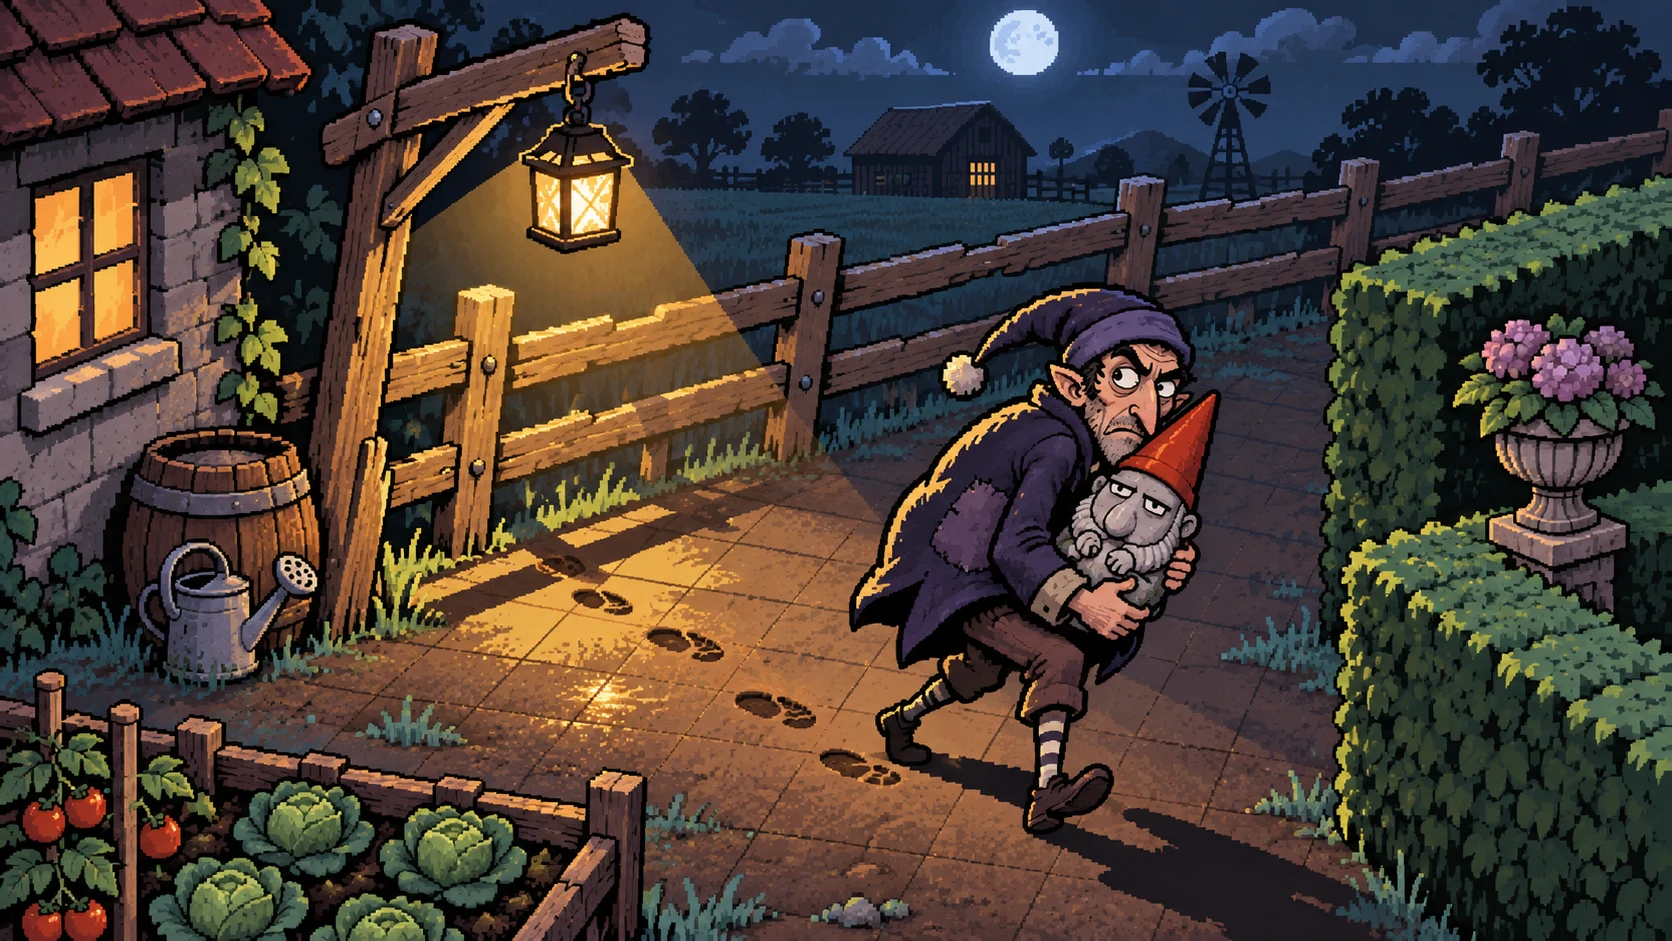
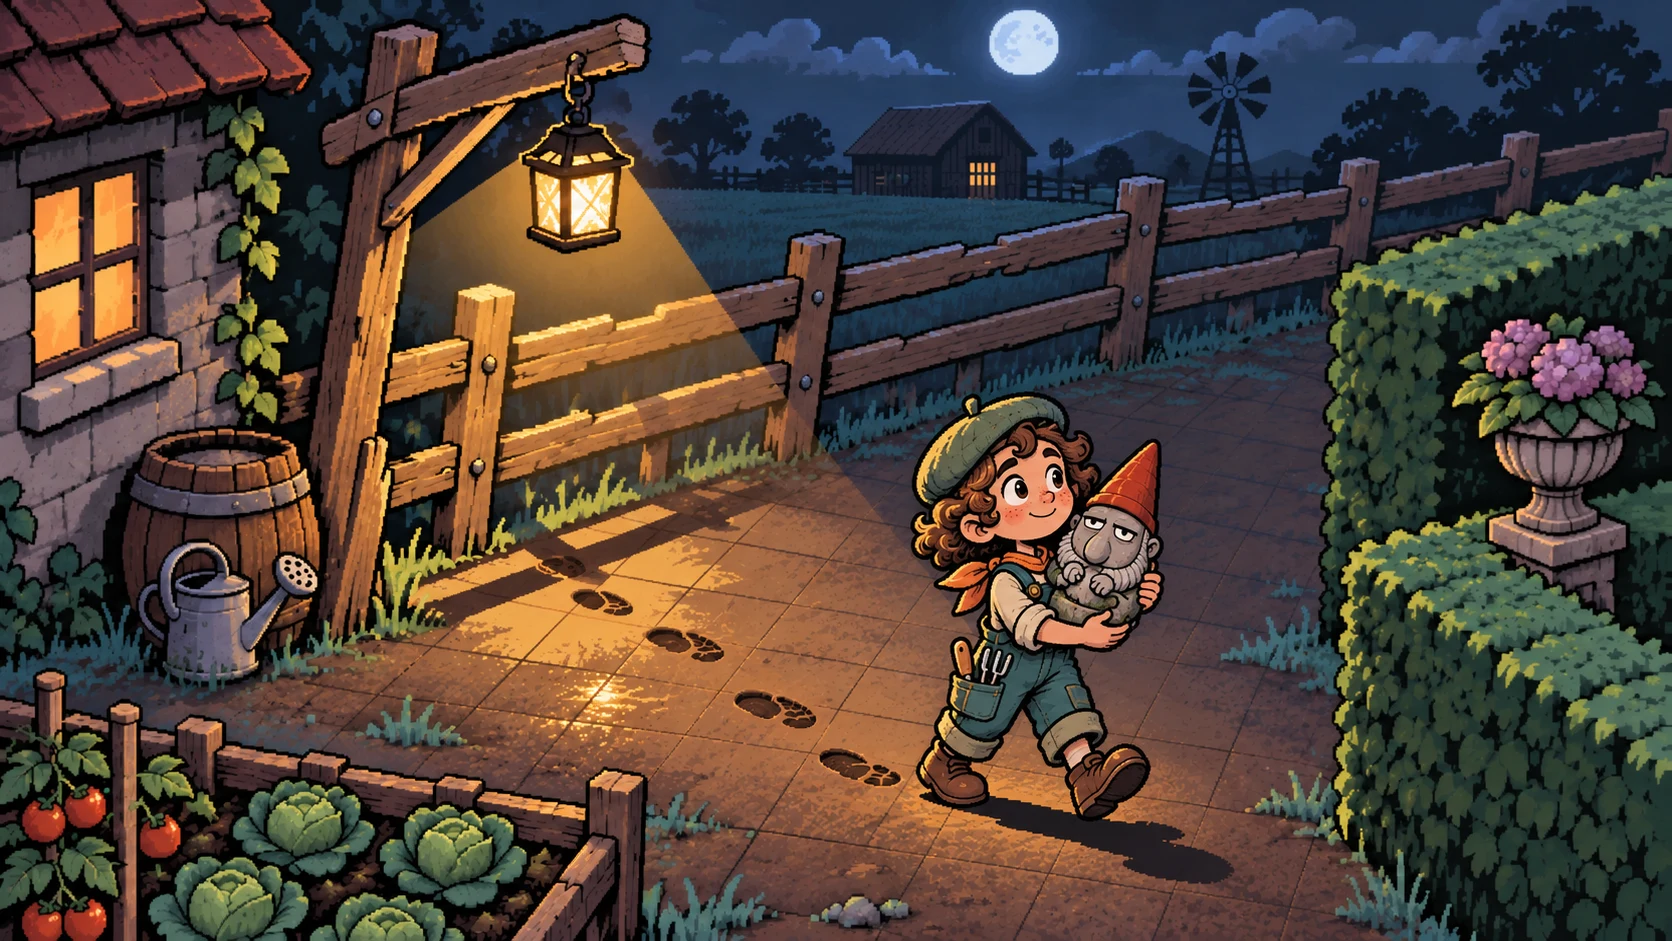
Redraw the playable gardener at a smaller farm scale
AI-assisted by Codex under Hao’s direction.

diff --git a/docs/HANDOFF.md b/docs/HANDOFF.md
@@ -4,13 +4,12 @@ AI-use disclosure: Claude (Claude Code) and Codex maintain this handoff under Ha
 
 Keep this file short: replace the snapshot each time, and update only your own row in Active work. Durable detail belongs in commits, PRs, and the docs.
 
-## Snapshot (2026-11-18, Codex, first playable art pass)
+## Snapshot (2026-11-18, Codex, gardener revision)
 
-- Local branch `codex/night-farm-art-v1` is based on the T8 handoff at `798b7cb`. The previous snapshot and rule-verification history are available at that commit.
-- Hao requested a first playable style checkpoint. The entry illustration, directional thief, carrying poses, farm tiles, interactive props and inked footprints are ready for his review. The four-column gait advances with actual distance. The 24 × 32 character cell and desktop camera framing are provisional art choices.
-- Local checks passed with Node 24.22.3: strict typecheck, 169 tests, production client build and Worker dry-run. A Chrome keyboard replay on Vite and on the standalone local HTML selected the west entrance, stopped facing right, dug the southwest gnome, returned with it, ended the night and restarted. The recorded route is from the playable client.
-- Independent review identified a widescreen sight-range regression and a portrait crop that cut off the gnome. Both fixes were applied. Chrome checked 1920 × 1080 camera zoom and 390 × 844 cover framing.
-- The first night still starts with an unlit lamp. The illustrated title scene shows the proposed moonlight and lantern palette. Style approval and human playtesting are pending.
+- Hao liked the farm style and asked for a cuter, smaller playable character. The first art checkpoint is at `443eae5` on `codex/night-farm-art-v1`.
+- The proposed gardener now wears a sage beret, teal overalls and an apricot scarf. At the existing map scale, visible height is 21–22 pixels across the sheet (previously 27–30). The revised cover depicts the same gardener.
+- Independent review checked all 32 distinct frames, the foot baseline and carry poses. The client production build passed. Chrome replayed the standalone HTML through choosing the west entrance, walking, digging the southwest gnome, carrying it to the exit and restarting.
+- Next art checkpoint: Hao compares the gardener's expression and size on the farm before any broader art work.
 
 ## Active work
 
@@ -22,7 +21,7 @@ Keep this file short: replace the snapshot each time, and update only your own r
 | M0 skeleton and Worker skeleton (T7, T11a) | Claude, for Hao | `feat/m0-skeleton` | `core/`, `game/`, `worker/`, `maps/`, `.github/`, root config, `docs/architecture.md`, `docs/project-plan.md` | Built, checked locally, reviewed; awaiting Hao: deploy, push/PR, acceptance |
 | M0 review fixes and local development decision | Codex, for Hao | `feat/m0-skeleton` | `core/`, `game/`, `worker/`, `vitest.config.ts`, `docs/architecture.md`, `docs/project-plan.md`, `docs/HANDOFF.md` | Fixes pushed at `f6af482`; 111 tests, strict typecheck and build passed; independent review found no material issues. Hao chose local development first and deferred cloud hosting. |
 | T8 night rules | Claude, for Hao | `feat/t8-night-rules` | `core/`, `game/`, `maps/`, `worker/src/session.ts`, `docs/project-plan.md`, `game/README.md` | Built, tested and reviewed locally; awaiting Hao on the open rule questions, then push/PR |
-| First playable art pass | Codex, for Hao | `codex/night-farm-art-v1` | `game/`, `maps/`, credits | Local style review ready; awaiting Hao’s visual direction |
+| First playable art pass | Codex, for Hao | `codex/night-farm-art-v1` | `game/`, `maps/`, credits | Gardener revision ready for Hao’s character and scale review |
 
 ## Before posting (Hao)
 

diff --git a/CREDITS.md b/CREDITS.md
@@ -8,7 +8,7 @@ AI-use disclosure: Claude (Claude Code) drafted this file under my direction for
 | Map editor | [Tiled](https://www.mapeditor.org) | GPL (the editor only; map files are my own work) |
 | Original farm layout and historical tileset (`maps/greybox.png`) | Generated by `maps/tools/make-greybox.mjs`, written by Claude (Claude Code) under my direction | Project's own |
 | First playable night farm art (`maps/night-farm.png`, environment sprites and decoration) | Original pixel art generated from `maps/tools/make-night-art.mjs` by Codex under Hao’s direction | Project’s own |
-| Thief walk and carrying sprite sheet (`game/src/assets/player.png`) | Original 32-frame character drawn by Codex under Hao’s direction | Project’s own |
+| Gardener walk and carrying sprite sheet (`game/src/assets/player.png`) | Original 32-frame character drawn by Codex under Hao’s direction | Project’s own |
 | Entry illustration (`game/src/assets/night-cover.webp`) | OpenAI built-in image generation, art-directed by Hao and Codex | Generated for this project |
 | Build and runtime tools | Vite, Vitest, TypeScript, Wrangler and `@cloudflare/vitest-plugin`; exact versions in `package-lock.json` | Their own licenses |
 
